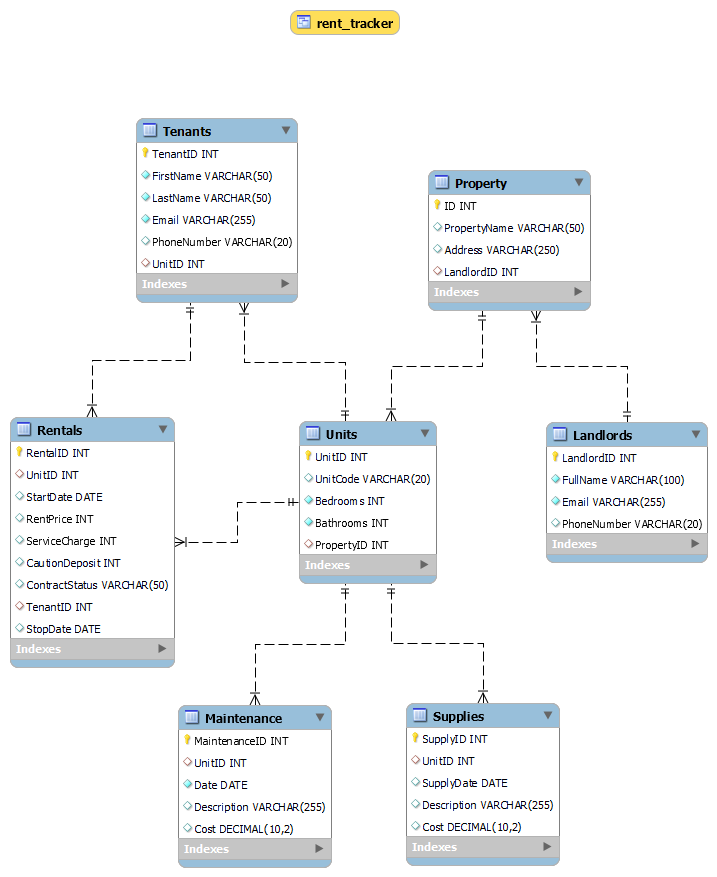
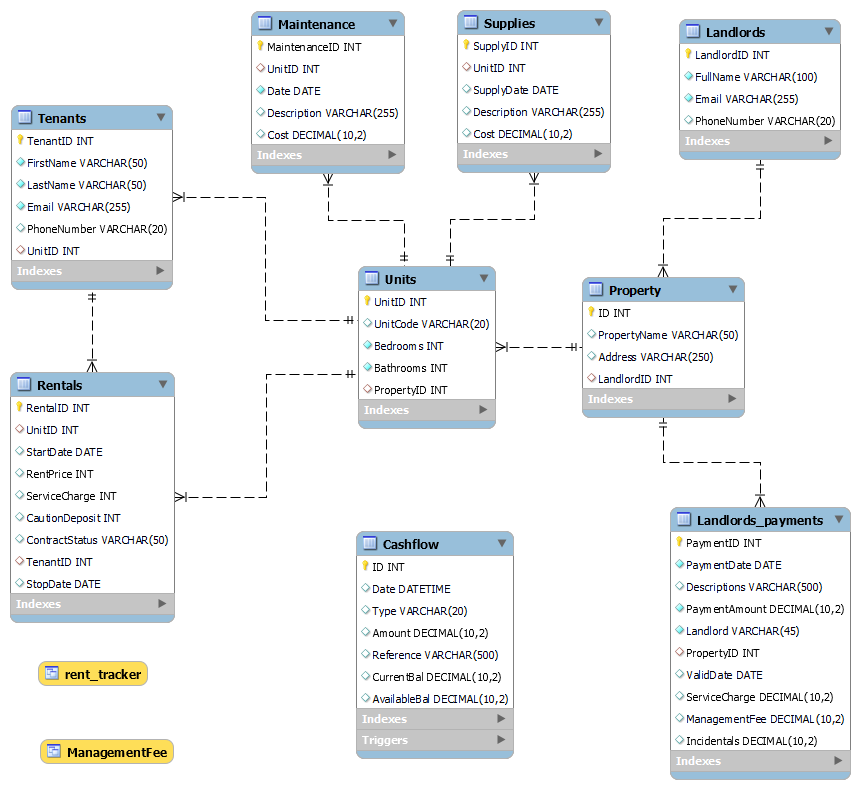
I made several updates including: 1. Added a function in upcoming_rent_email.py to restart MySQL event_scheduler every time the script is run in order to make sure the the database  triggers run on schedule. 2. I created a new table in the database Land git commit -m

diff --git a/upcoming_rent_email.py b/upcoming_rent_email.py
@@ -48,7 +48,11 @@ def obtain_pool_connection(db_pass):
         print(f"connected to {pool.pool_name} pool successfully.\n")
     return connection 
  
-
+def start_mysql_event_scheduler():
+    connection = CONNECTION 
+    cursor = connection.cursor()
+    cursor.execute("SET GLOBAL event_scheduler =  ON;")
+    cursor.close
 
 def get_credentials():
     creds  = None
@@ -107,6 +111,7 @@ def send_upcoming_rent_email():
     try:
         connection = CONNECTION 
         cursor = connection.cursor()
+
         print('Checking for upcoming rent...')
         cursor.execute(upcoming_rent_records)
         records = cursor.fetchall()
@@ -312,6 +317,8 @@ if __name__ == "__main__":
 
     db_password = os.environ.get('DB_PASS')
     CONNECTION = obtain_pool_connection(db_password)
+
+    start_mysql_event_scheduler()
 
     send_upcoming_rent_email() 
 
